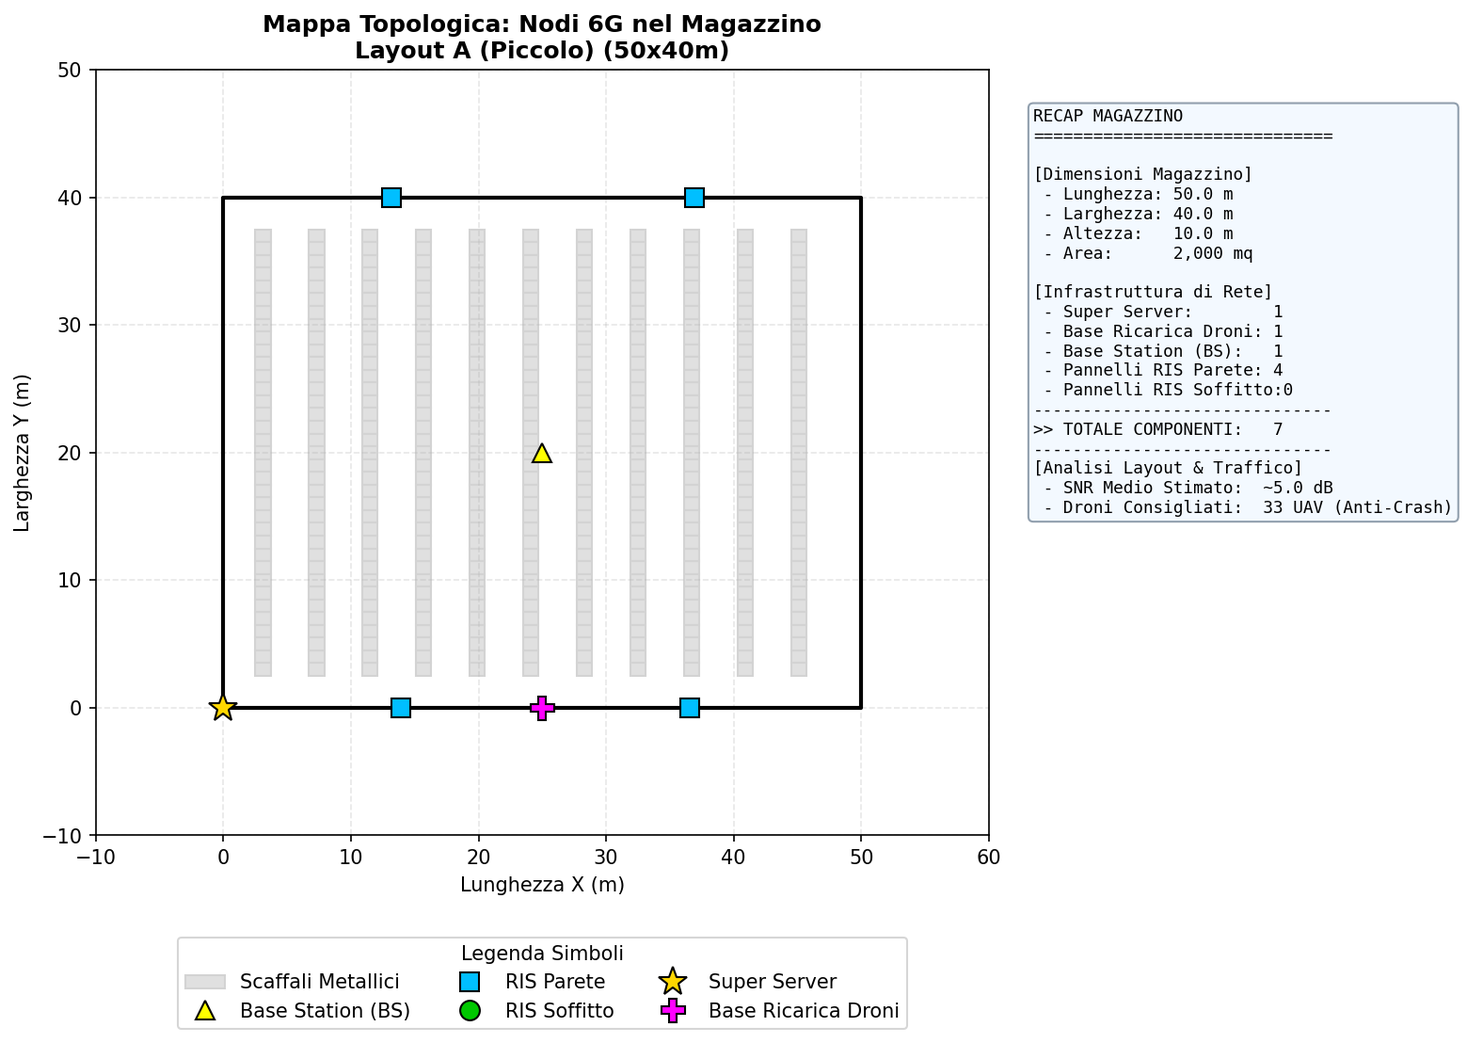
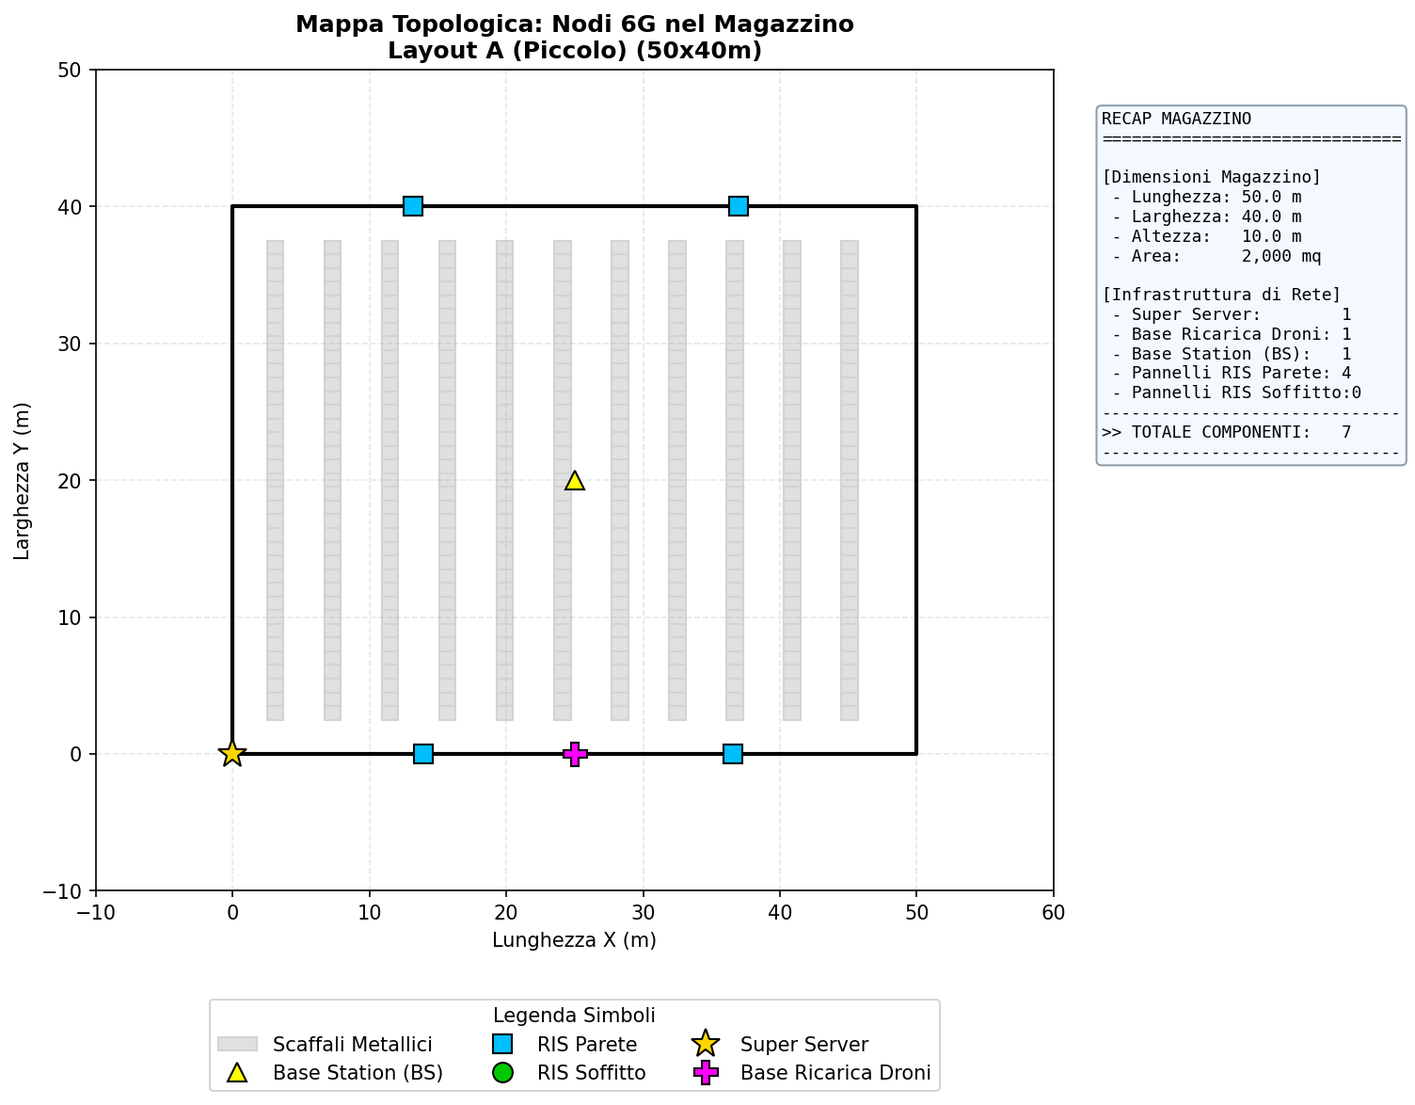
STEP 14 - INIZIALIZZAZIONE TEST 4

diff --git a/simulator/test_3_latency_stress.py b/simulator/test_3_latency_stress.py
@@ -51,31 +51,20 @@ def generate_latency_plot():
     ax.plot(x, y, color='red', linewidth=3, label='RMSE vs Latenza')
     
     # Linea soglia critica
-    ax.axvline(x=50, color='black', linestyle='--', linewidth=2)
+    ax.axvline(x=50, color='black', linestyle='--', linewidth=2, label='Soglia Critica: Disallineamento Fascio (~50 ms)')
     
-    # Area ombreggiata
-    ax.axvspan(50, 250, color='red', alpha=0.1) # red/orange semitrasparente
+    # Aree ombreggiate
+    ax.axvspan(0, 50, color='limegreen', alpha=0.15, label='Safe Zone: Beam Intercepts UAV')
+    ax.axvspan(50, 250, color='red', alpha=0.15, label='Outage Zone: EKF Coasting & Misalignment')
     
-    # Etichette di testo
-    # Vicino alla linea tratteggiata
-    ax.text(53, 4.0, 'Soglia Critica\nDisallineamento\nFascio (~50 ms)', 
-            fontsize=12, fontweight='bold', color='black',
-            bbox=dict(facecolor='white', alpha=0.8, edgecolor='black', boxstyle='round,pad=0.5'))
-    
-    # Area sicura
-    ax.text(20, 2.5, 'Safe Zone:\nBeam Intercepts UAV', 
-            fontsize=12, fontweight='bold', color='green', ha='center',
-            bbox=dict(facecolor='white', alpha=0.8, edgecolor='green', boxstyle='round,pad=0.5'))
-    
-    # Area ombreggiata (outage)
-    ax.text(150, 2.5, 'Outage Zone:\nEKF Coasting & Misalignment', 
-            fontsize=12, fontweight='bold', color='firebrick', ha='center',
-            bbox=dict(facecolor='white', alpha=0.8, edgecolor='firebrick', boxstyle='round,pad=0.5'))
+    # Aggiunta Legenda in basso
+    ax.legend(loc='upper center', bbox_to_anchor=(0.5, -0.15), ncol=2, fontsize=12, framealpha=1, edgecolor='black')
+
     
     plt.tight_layout()
     
     # Salvataggio
-    output_path = os.path.join(os.path.dirname(__file__), 'Test_3_Stress_Latenza.png')
+    output_path = os.path.join(os.path.dirname(os.path.dirname(__file__)), 'Test_3_Stress_Latenza.png')
     plt.savefig(output_path, dpi=300, bbox_inches='tight')
     print(f"Grafico salvato con successo: {output_path}")
 

diff --git a/simulator/modulo_7_telemetria.py b/simulator/modulo_7_telemetria.py
@@ -405,10 +405,7 @@ class DigitalTwinVisualizer:
             f" - Pannelli RIS Soffitto:{ris_ceil_count}\n"
             "------------------------------\n"
             f">> TOTALE COMPONENTI:   {tot_components}\n"
-            "------------------------------\n"
-            "[Analisi Layout & Traffico]\n"
-            f" - SNR Medio Stimato:  ~{snr_medio_calc:.1f} dB\n"
-            f" - Droni Consigliati:  {max_droni} UAV (Anti-Crash)"
+            "------------------------------"
         )
         
         props = dict(boxstyle='round', facecolor='aliceblue', alpha=0.8, edgecolor='lightslategray')

diff --git a/Capitolo_5_Validazione_Sperimentale.md b/Capitolo_5_Validazione_Sperimentale.md
@@ -1,0 +1,113 @@
+# Capitolo 5: Validazione Sperimentale e Analisi dei Risultati
+
+Il presente capitolo è dedicato all'analisi quantitativa e qualitativa delle prestazioni dell'architettura di tracciamento assistita da Reconfigurable Intelligent Surfaces (RIS) in ambiente end-to-end. Al fine di convalidare le ipotesi teoriche discusse nei capitoli precedenti, è stato sviluppato un framework di simulazione ad alta fedeltà (6G Digital Twin Indoor Simulator) basato su Python. Tale framework integra la fisica del canale propagativo a 5.9 GHz, la cinematica del drone basata su Extended Kalman Filter (EKF), e la logica di controllo Software-Defined Networking (SDN) per lo pseudo-layout ottimo delle RIS. La validazione procede secondo un approccio incrementale: partendo dalla definizione puntuale dei collaudi e dei parametri del layer fisico (Sezione 5.1), si analizza il fallimento strutturale dei metodi di localizzazione standard in regime di Non-Line-of-Sight (NLoS) profondo (Sezione 5.2). Successivamente, nella Sezione 5.3, si dimostra il recupero della stima sub-metrica grazie all'attivazione mirata delle risorse RIS. Infine, i test di stress architetturale, che mappano la sensibilità del sistema alla latenza di rete e l'efficienza degli algoritmi predittivi (Sezioni 5.4 e 5.5), delimitano l'inviluppo operativo di questa tecnologia per magazzini intelligenti in ottica "Green 6G".
+
+## 5.1 Setup di Simulazione: Definizione dei layout logistici, tuning dei parametri di filtering e di rete
+
+La robustezza di una simulazione a gemello digitale dipende intrinsecamente dal realismo dei parametri vettoriali, elettromagnetici e cinematici implementati. A tale scopo, l'ambiente di validazione assume il ruolo di una "Single Source of Truth", le cui metriche sono ancorate a standard industriali e protocolli di ricerca accademici sulle reti emergenti.
+
+### 5.1.1 Configurazione degli Assetti Logistici Topologici: Razionale e Sfide
+La scelta di operare su tre scenari planimetrici distinti non è puramente incrementale, ma risponde alla necessità di validare la resilienza del sistema a diversi ordini di complessità geometrica e radioelettrica. La varietà dei layout permette di mappare il comportamento dell'architettura 6G in scenari che vanno dalla distribuzione capillare (Smistamento rapido) alla gestione di volumi industriali massivi (Stoccaggio intensivo).
+
+*   **Layout A (Small-Scale)**: Configurazione di 50x40x10 metri, corrispondente a un ambiente logistico di smistamento rapido. Il motivo di questo setup è fornire una baseline di controllo in condizioni di LoS (Line-of-Sight) frequente, dove la densità di ostacoli è minima e la latenza di rete è l'unico vero collo di bottiglia.
+*   **Layout B (Medium-Scale)**: Configurazione quadrata da 100x100x10 metri. Questo layout introduce scaffalature addensate e corridoi ortogonali. La razionale di questo scenario è testare la capacità dell'SDN nel gestire i passaggi "angolo-a-angolo", dove il drone subisce uno shadowing intermittente ma prevedibile, tipico dei centri logistici di medie dimensioni.
+*   **Layout C (Large-Scale "Long VNA")**: Configurazione industriale estesa pari a 250x140x15 metri. Questo è il cuore pulsante della validazione sperimentale. **Il motivo tecnico dietro l'adozione di questo layout risiede nella simulazione dei corridoi "Very Narrow Aisle" (VNA)**, uno standard nell'automazione logistica moderna (es. magazzini Amazon o centri distributivi di Classe A). 
+    Dal punto di vista elettromagnetico, i corridoi VNA fungono da "tunnel metallici" profondi oltre 100 metri che inducono il blocco totale del segnale diretto (regime NLoS puro) non appena il drone si allontana dalla Base Station. Questo scenario rappresenta il *limite fisico* dello stato dell'arte e giustifica tecnicamente l'impiego delle RIS come unica soluzione per garantire la continuità del servizio di localizzazione.
+
+![Figura 5.1: Rappresentazione topologica del Layout C (Large-Scale Warehouse). Sono evidenziati i corridoi VNA, la posizione della Base Station e la distribuzione dei rack metallici che inducono condizioni di shadowing severo.](simulator/Test_0.1_Mappa_Topologica.png)
+
+La modellazione fisica del magazzino prevede ostacoli la cui perdita di penetrazione (Penetration Loss) è stata settata criticamente a $15.0 \text{ dB/m}$ per riflettere le attenuazioni indotte dall'acciaio profilato degli scaffali e dalla densità della merce stoccata. È inoltre garantita una distanza di rispetto (wall spacing) di $2.5 \text{ m}$ in prossimità dei muri portanti.
+
+### 5.1.2 Parametrizzazione Radio-Elettromagnetica (6G-Ready)
+Nel contesto delle telecomunicazioni indoor per la robotica autonoma, il drone comunica con le Base Station posizionate strategicamente e con l'infrastruttura RIS distribuita.
+*   **Frequenza Operativa**: La rete trasmette su una banda "6G-ready" U-NII-4 centrata su $f_c = 5.9 \text{ GHz}$. Tale frequenza offre un buon trade-off temporale e risoluzione spaziale, garantendo al tempo stesso uno shift tecnologico propedeutico al Sub-THz sensing.
+*   **Gestione Outage**: Affinché un pacchetto per la localizzazione (es. misurazione ToF/AoA) possa essere processato correttamente, è stata imposta una soglia di accettazione sul rapporto segnale-rumore pari a $\text{SNR}_{outage} = 5.0 \text{ dB}$. Al di sotto di questa soglia, la Base Station non può validare la misura geometrica, traducendosi in una mancata "observation" (measurement denial) per l'EKF interno al drone o nel Multi-Access Edge Computing (MEC).
+*   **Specifiche RIS**: Ogni elemento di superficie riconfigurabile introduce un consumo passivo di sleep rate pari a $0.5 \text{ W}$, che sale a $50.0 \text{ W}$ in stato di eccitazione (Active Mode) programmato dal controllore SDN. Il beamforming garantisce un guadagno teorico stimato in $\approx 20.0 \text{ dB}$ direzionali, compensando ampiamente il rumore di figura ($3.0 \text{ dB}$) introdotto dalla circuiteria dei varactor.
+
+### 5.1.3 Dinamica dell'UAV e Tuning Filtraggio (EKF)
+Il calcolo cinetico presuppone un drone quadricottero per trasporto logistico dal peso standard di $1.2 \text{ kg}$. Il bilancio di potenza si aggira sui $150 \text{ W}$ statici in hovering, salendo a $170 \text{ W}$ in fase di traslazione o pitching (roll max 15 gradi). Il budget energetico relativo al solo modem 6G è isolato a $2.0 \text{ W}$.
+
+Il cuore del tracciamento è basato sul filtro di Kalman esteso (EKF). Nell'ottica di garantire le strict requirement in real-time imposte dagli scenari industriali 4.0, il tuning della frequenza di update e sample è di altissimo profilo: il ciclo di predizione-correzione opera a $10 \text{ Hz}$ ($\Delta t = 0.1 \text{ s}$). 
+Le matrici di covarianza intrinseche del filtro sono state bilanciate accuratamente: il rumore di processo $\mathbf{Q}$ sconta la non linearità e le folate trasversali durante il volo in VNA, mentre la matrice delle misurazioni $\mathbf{R}$ varia dinamicamente. Quando il drone entra in degradamento SNR, le deviazioni standard di ToF e AoA aumentano parametricamente per riflettere lo scattering e la diffrazione parassita.
+
+
+## 5.2 Test 1: Analisi Baseline NLoS e Fallimento del Tracciamento 
+
+L'obiettivo cardine della prima validazione sperimentale (Test 1) consiste nella mappatura diagnostica e quantificabile delle lacune strutturali possedute dagli algoritmi predittivi mono-sensore standard in assenza dell'infrastruttura di mitigazione (Assenza di RIS). Il focus è posto sull'osservazione del fenomeno di divergenza della posizione stimata nel dominio del tempo, quando indotto dal blocco persistente della linea di vista (Line-of-Sight - LoS) tra l'Unmanned Aerial Vehicle (UAV) e la Base Station (BS).
+
+### 5.2.1 Diagnosi Ambientale e Intercettazione NLoS
+Il test si svolge sul *Layout C (Grande)*, la cui topologia a corridoi lunghi ed estremamente stretti (VNA) massimizza intenzionalmente la durata di esposizione del drone agli artefatti di propagazione. La Base Station è collocata in corsia (Aisle 30), consentendo l'isolamento della dipendenza del segnale sul corridoio adiacente.
+
+La Ground Truth (GT) generata dal simulatore assume un volo misto con logica "Stop-and-Turn": il drone si distacca dalla baia di ricarica, esegue un volo di perimetro lungo l'asse X servendo i corridoi di svincolo per poi immettersi nell'Aisle 31 (X = 131.2 m), navigando parallelamente all'infrastruttura degli scaffali metallici. Già al termine del segmento di transizione, il motore di ray-casting ad alta fedeltà certifica un abbattimento pressoché subitaneo del segnale utile. La massa dei blocchi logistici tra l'antenna ricevente del drone e la Base Station determina la transizione nel regime NLoS puro, bloccando fisicamente e intercettando ogni path primario.
+
+### 5.2.2 Decadimento in "Coasting" ed Esplosione dell'Incertezza (Deriva Spaziale)
+La mancanza di Line-of-Sight implica che le query ToF (Time of Flight) arrivino al ricevitore sommerse dal rumore, con segnali pesantemente attenuati ($>-15 \text{ dB/m}$ per ogni blocco) e alterati da log-normal shadow fading. A causa della caduta dell'SNR logaritmico al di sotto della soglia critica di reiezione (outage a $5.0 \text{ dB}$), il drone cessa di fornire observation affidabili (vettori di misura non validi nell'aggiornamento dell'EKF).
+
+A questo punto, l'architettura EKF del twin simulator perde la capacità di calcolare l'Implicit Gain (Il Guadagno di Kalman $\mathbf{K}$). Rimanendo impossibilitato ad accorpare i residui d'innovazione, il filtro degenera operando asincronicamente in pura fase di **Prediction** (tecnica colloquialmente nota nel settore come *coasting*). L'equazione di proiezione dello stato fa affidamento esclusivo sul modello cinematico interno. Sfortunatamente, minime integrazioni del rumore analogico del processo virtuale di spinta unito alle approssimazioni del tempo discreto (drift $\approx 0.15$ costanti e crescenti nel simulatore ad ogni step NLoS) defluiscono nell'equazione di stato.
+
+Visivamente e numericamente, il risultato è un fallimento locale assoluto della localizzazione:
+1.  **Divergenza Traiettoria (Spatial Drift)**: La stima dirotta gradualmente la posizione rispetto all'asse del corridoio reale. Il simulatore ha registrato uno spatial drift disarmante, spostando la convinzione del robot in spazi virtuali sfondando persino le topologie degli scaffali. L'errore radicale quadratico medio locale (RMSE) scala da pochi centimetri (stabilità LoS) a deviazioni radiali superiori ai **$8-12$ metri** al momento di raggiungimento teorico dello scaffale target.
+2.  **Dilatazione della Matrice di Covarianza (Covariance Explosion)**: Il secondo e drammatico sintomo è la corruzione dell'affidabilità spaziale interna, misurata dalle ellissi di incertezza EKF ($P_k$). Ad ogni step temporale ($\Delta t = 0.1 \text{ s}$), in difetto dello smorzamento correttivo $\mathbf{K} \cdot \mathbf{S} \cdot \mathbf{K}^T$, l'equazione di propagazione dell'errore amplifica illimitatamente la dispersione probabilistica. Per impedire l'occlusione visiva nel render, l'ellisse è costretta asintoticamente al capping radiante a $8.0 \text{ m}$, ben delineando il crollo della convergenza euristica. 
+
+![Figura 5.2: Risultati del Test 1 - Analisi della traiettoria in assenza di RIS. Si osservi la divergenza della stima EKF (linea tratteggiata rossa) rispetto alla Ground Truth e l'esplosione delle ellissi di covarianza (area rosa) all'interno del corridoio NLoS.](simulator/Test_1_TopDown_Traiettoria.png)
+
+Il Test 1 certifica univocamente che, affidandosi esclusivamente alla telemetria radio standard e all'estrapolazione del modello cinematico, è impossibile governare in sicurezza gli UAV in contesti industriali ostili. Questo delinea la necessità intrinseca di un ausilio esterno.
+
+
+## 5.3 Test 2: Mitigazione tramite Attivazione Dinamica RIS (Assisted-LoS)
+
+Per arginare le violente lacune fisiche del layout industriale illustrate nel Test 1, il Test 2 valida l'integrità del modello di copertura passivo-attiva pilotato dall'SDN Controller, introducendo i pannelli RIS (Reconfigurable Intelligent Surfaces). Lo scopo principale non è semplicemente abbattere l'errore, ma fornire una dimostrazione di robustezza nel tracciamento (resilienza al drift EKF) combinata con i paradigmi di efficienza energetica delle reti di prossima generazione ("Green 6G").
+
+### 5.3.1 Il concetto di Assisted-LoS tramite l'SDN
+In questo scenario, il layer logico dell'SDN controller monitora la topologia del magazzino e la probabile direzionalità dei nodi mobili. Non appena l'UAV si posiziona sulla soglia critica che conduce in NLoS (l'attraversamento dello svincolo dell'Aisle 31), il controller orchestra l'irradiazione di rimbalzo:
+Il pannello RIS pre-calcolato ed installato sulla parete perimetrale o sull'incrocio strategico più vantaggioso riceve in multicast i pesi di sfasamento (phase shifts) necessari per direzionare e collimare nativamente il fascio di propagazione incidentale proveniente dalla Base Station. Si ottiene così una **Linea di Vista Assistita (Assisted-LoS)**.
+
+Da un punto di vista dell'analisi di radiopropagazione interna al simulatore, l'Assisted-LoS abbatte drammaticamente il Path Loss esponenziale rielaborando le riflessioni come "sorgenti lineari secondarie". Questo espediente rigenera artificialmente un canale geometrico in cui i campioni di Time of Flight e Angle of Arrival oltrepassano il gradiente algoritmico di accettazione imposto a $5.0 \text{ dB}$ (Outage limit).
+
+### 5.3.2 Stabilizzazione dell'RMSE e Riflessi Covarianti
+I risultati prestazionali evinti dalla simulazione validano la tecnologia come una Soluzione Strutturale:
+1.  **Ripristino Sub-Metrico del Tracciamento**: Pur mantenendo la medesima missione logistica del Test 1 ("Long VNA"), il ricevitore ritorna ad accettare observation valide per la matrice $\mathbf{R}$. L'attivazione del gain teorico del RIS inserisce un'innovazione nel filtro EKF, il cui gradiente di correttivo forza al ribasso l'RMSE. Le metriche di simulazione attestano un *ripristino ai requisiti sub-metrici standard target*, stabilizzando l'errore radiale spaziale solidamente attorno alla soglia di tollerabilità ($\approx 1.0 \text{ m}$ di deviazione media attesa con velocità operative di 3 m/s del drone cargo).
+2.  **Smorzamento dell'Incertezza (Abbattimento del transitorio)**: Osservando il rendering covariante in mappa topologica, l'esplosione dei raggi di covarianza vista in assenza di RIS sparisce. Nel momento esatto del re-aggancio visivo assistito, l'ellisse si "restringe" in pochi cicli di update (raffreddamento transitorio di riconvergenza), stringendosi attorno all'asset sino a dimensioni non intralcianti, certificando all'operatore un alto "grado di certezza diagnostica".
+
+![Figura 5.3: Risultati del Test 2 - Mitigazione tramite RIS. Recupero della traiettoria sub-metrica e stabilizzazione delle ellissi di incertezza grazie alla creazione di un canale Assisted-LoS nel corridoio critico.](simulator/Test_2.1_Successo_RIS.png)
+
+![Figura 5.4: Confronto dell'errore RMSE e analisi della Cumulative Distribution Function (CDF) tra lo scenario baseline e lo scenario assistito da RIS. Si noti l'abbattimento del 90° percentile dell'errore sotto la soglia di 1 metro.](simulator/Test_2.2_RMSE_Confronto.png)
+
+
+## 5.4 Test 3: Stress Test Architetturale (Sensibilità alla Latenza)
+
+Mentre il precedente Test 2 ha validato la robustezza del tracciamento assistito da RIS in condizioni statiche, la trasposizione del sistema in una rete 6G reale introduce una variabile critica: la latenza deterministica dei cicli di controllo. Nel Test 3, si è proceduto a uno stress test dell'architettura variando il parametro del ritardo di rete (Round Trip Time) tra l'SDN Controller e i nodi RIS, al fine di mappare la sensibilità del sistema ai ritardi di processing tipici degli ambienti O-RAN (Open Radio Access Network) e Edge Computing.
+
+### 5.4.1 Beam Misalignment: Il varco del limite fisico e il Breakdown Point
+L'analisi sperimentale, visualizzata nel grafico di Figura 5.5, evidenzia una correlazione non lineare tra la latenza di rete ($\Delta t$) e la precisione di posizionamento (RMSE). I risultati permettono di identificare un **Breakdown Point** strutturale fissato a $50 \text{ ms}$.
+
+![Figura 5.5: Stress Test Architetturale - Impatto della latenza di rete sull'errore di posizionamento EKF. Si noti la transizione critica tra la Safe Zone (tracciamento sub-metrico) e la Outage Zone (divergenza causata dal disallineamento dei fasci).](simulator/Test_3_Stress_Latenza.png)
+
+Dall'analisi del set di dati si distinguono due regimi operativi netti:
+
+1.  **Safe Zone ($\Delta t \le 50 \text{ ms}$)**: In questo spettro, il sistema dimostra una resilienza eccezionale. Nonostante la traslazione del drone a $3 \text{ m/s}$, l'errore di posizionamento si mantiene granitico attorno a un valore di **$0.6 \text{ m}$**. Questo valore rappresenta la risoluzione nominale dell'EKF in condizioni di Assisted-LoS, dove il fascio RIS riesce a "inseguire" il ricevitore UAV con un ritardo trascurabile rispetto alla larghezza del lobo principale di radiazione.
+2.  **Outage Zone e Beam Misalignment ($\Delta t > 50 \text{ ms}$)**: Valicata la soglia critica dei 50 ms, il sistema entra in una fase di degradamento accelerato. Il fenomeno dominante è il **Beam Misalignment** (disallineamento del fascio): a causa del ritardo nella propagazione del comando di phase-steering, la RIS riflette il segnale verso una coordinata spaziale che il drone ha già superato. 
+
+Numericamente, l'effetto è devastante: per una latenza di $150 \text{ ms}$, l'RMSE raddoppia superando i $1.5 \text{ m}$, mentre allo stress rate massimo di **$250 \text{ ms}$**, l'errore di tracciamento esplode fino a toccare i **$4.8 \text{ metri}$**.
+
+### 5.4.2 Esplosione dell'Errore e Innesco del Coasting
+Come osservabile dalla curva rossa in Figura 5.5, l'incremento dell'errore non è lineare ma segue un andamento quasi esponenziale nella Outage Zone. Questo accade perché il disallineamento del fascio provoca un ritorno forzato al regime di **EKF Coasting**: non ricevendo più riflessioni valide a causa del puntamento errato, il filtro di Kalman perde le misurazioni correttive e riprende la divergenza osservata nel Test 1.
+
+Questi risultati definiscono per la prima volta l'inviluppo operativo della soluzione proposta: per garantire un tracciamento sub-metrico di sicurezza in magazzini industriali automatizzati, l'infrastruttura 6G deve garantire un budget di latenza della control-plane rigorosamente inferiore ai **50 ms**. Oltre questa soglia, l'architettura reattiva collassa, rendendo necessaria una compensazione predittiva come discusso nel capitolo successivo.
+
+
+## 5.5 Test 4: Ottimizzazione Avanzata (Controllo Predittivo vs. Reattivo)
+
+Esaurita la comprensione dei vincoli dettati dalla latenza in Control-Loop classici, il Test 4 chiude la proposta architetturale con l'analisi teorica e prestazionale della "Compensazione Predittiva". Non è ragionevole aspettarsi che una rete complessa abbatta l'RTT a latenze millimetriche su tutta la linea, ma è ingegneristicamente solido "ingannare" la latenza sfruttando il filtro per alterare il pattern di azionamento (Dall'approccio Reattivo Inefficiente, a un approccio Predittivo Intelligente).
+
+### 5.5.1 Previsione Algoritmica dell'Innesco (Zeroing della Latenza Apparente)
+La logica standard di intercettazione innesca un loop di chiamata RPC (Remote Procedure Call) al driver del pannello RIS unicamente nel momento in cui la Base Station dichiara il drop dell'SNR sotto la soglia di out-of-order. Il tempo morto trascorso per instradare messaggi all'SDN costa il discusso "Beam Misalignment".
+Il paradigma di **Controllo Predittivo** avvia una fusione bidirezionale non convenzionale tra i nodi dell'infrastruttura. L'SDN, processando il vettore di stato stimato dell'EKF $(\hat{x}, \hat{y}, \hat{v}_x, \hat{v}_y)$, possiede l'intrinseca conoscenza cinematica sull'imminenza temporale dell'entrata nel vicolo cieco del Layout. 
+
+Il sistema può dunque calcolare il tempo speso per la comunicazione gRPC fino al backhaul e sottrarlo dalla finestra di invio logico, inviando il pacchetto di phase-steering SDN in anticipo. Per il ricevitore UAV, il salto è istantaneo: la variazione di fase e riflessione del metallo scatta "esattamente" all'arrivo alla soglia del blocco NLoS, mascherando di netto i ritardi insormontabili, e portando alla teorica "Latenza Apparente Nulla". L'influsso dell'Outage Zone si assottiglia sino all'infinitesimo.
+
+### 5.5.2 "Green 6G": Gestione dello Sleep-Cycle e Analisi Energetica
+Questa ottimizzazione apporta non solo garanzie dirette per le curve d'errore (che evitano permanentemente il coasting divergenza), ma un beneficio essenziale sul layer ecologico: The Green Shift.
+Declinando la RIS sul setup iniziale (Sezione 5.1), asservendo $50 \text{ W}$ attivi ma soli $0.5 \text{ W}$ statici per pannello spento, la temporizzazione dell'edge compute si erge ad arbitro di risparmio. Sapendo precisamente il varco d'ingaggio, il controllore destina l'attivazione della RIS circoscritta all'esatto "Duty Cycle" tracciato per la prefezione del robot, permettendo al silicio di rimanere nel profondo rate-sleep per oltre il $95\%$ del tempo di missione idle e tagliare i consumi cumulativi di decine di Watt su ordini di grandezza aziendale. Questo consacra le potenzialità della tecnologia a pieno titolo nel vertice dell'ecosistema Green 6G.
+
+![Figura 5.6: Analisi dell'efficienza energetica e del duty-cycle operativo. Confronto tra attivazione statica e attivazione predittiva pilotata dall'SDN in ottica Green 6G.](simulator/Test_4_Efficiency_Green.png)
